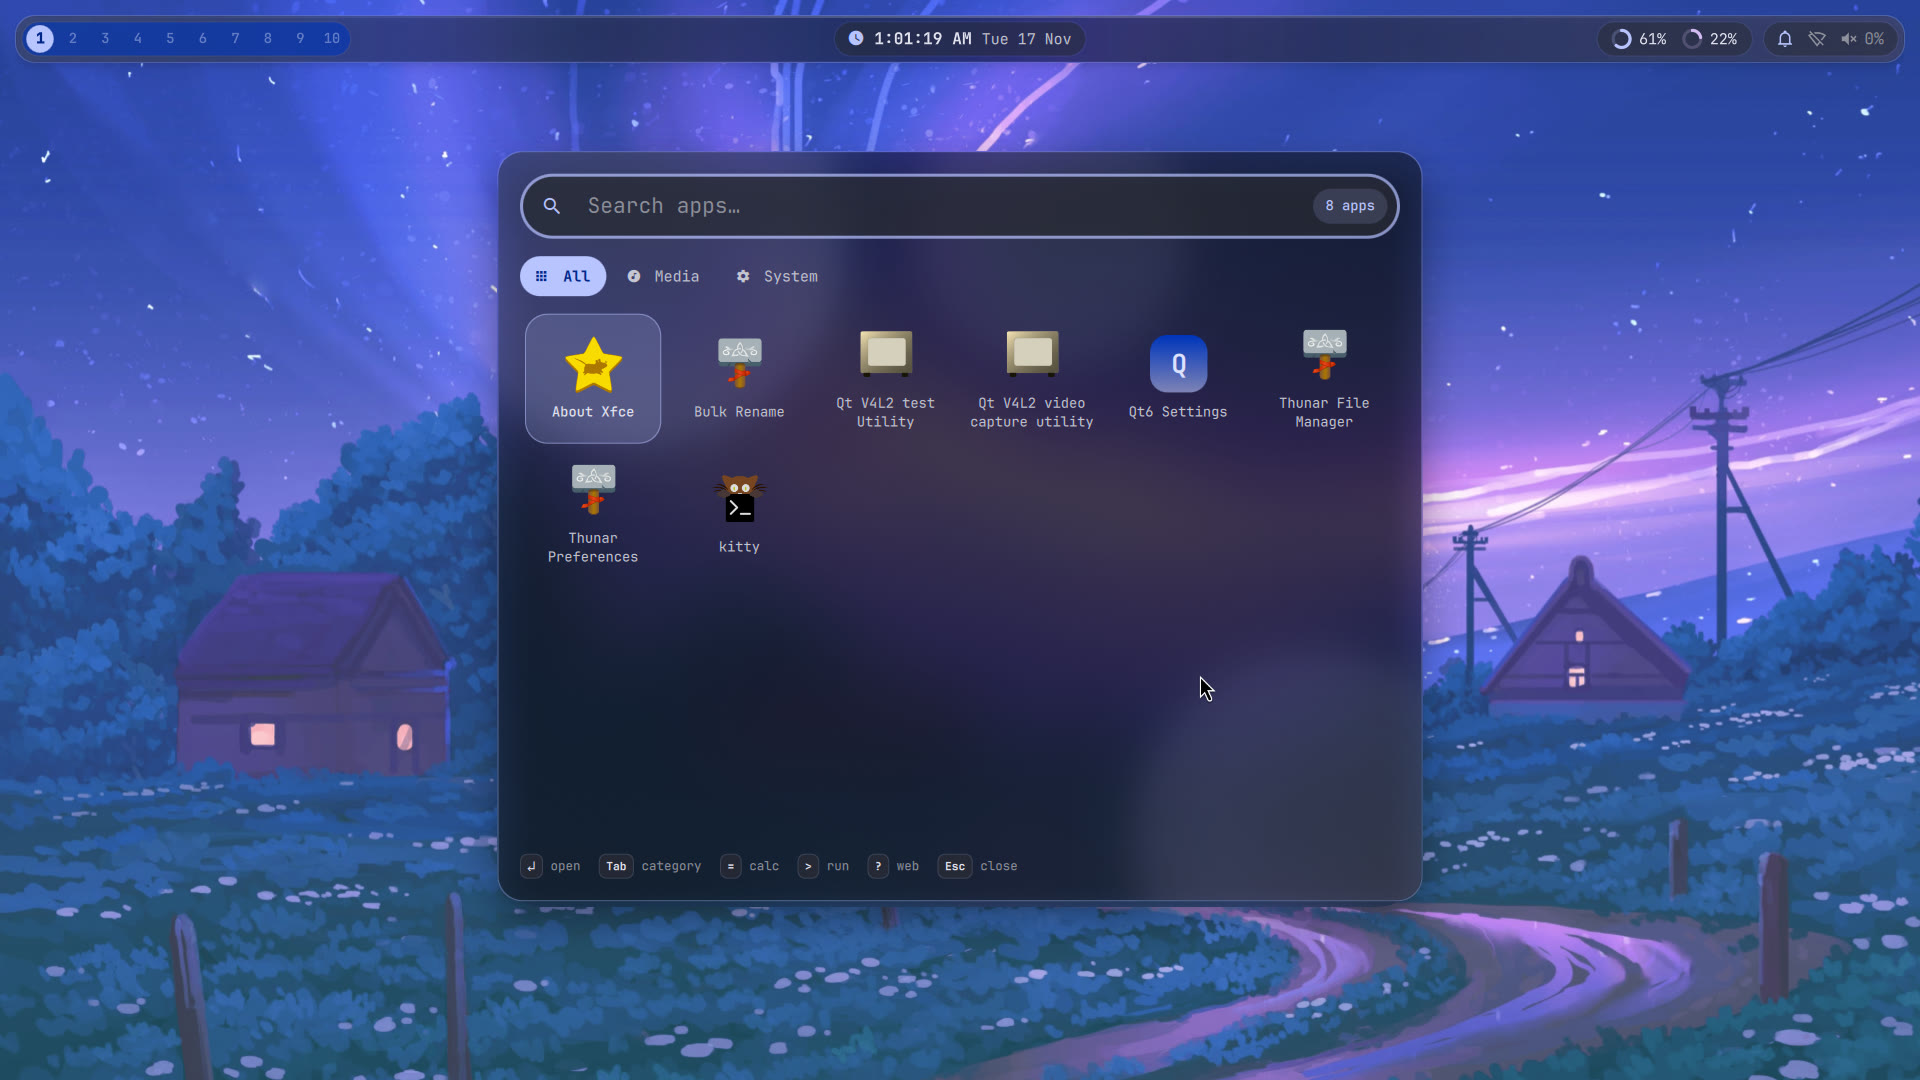
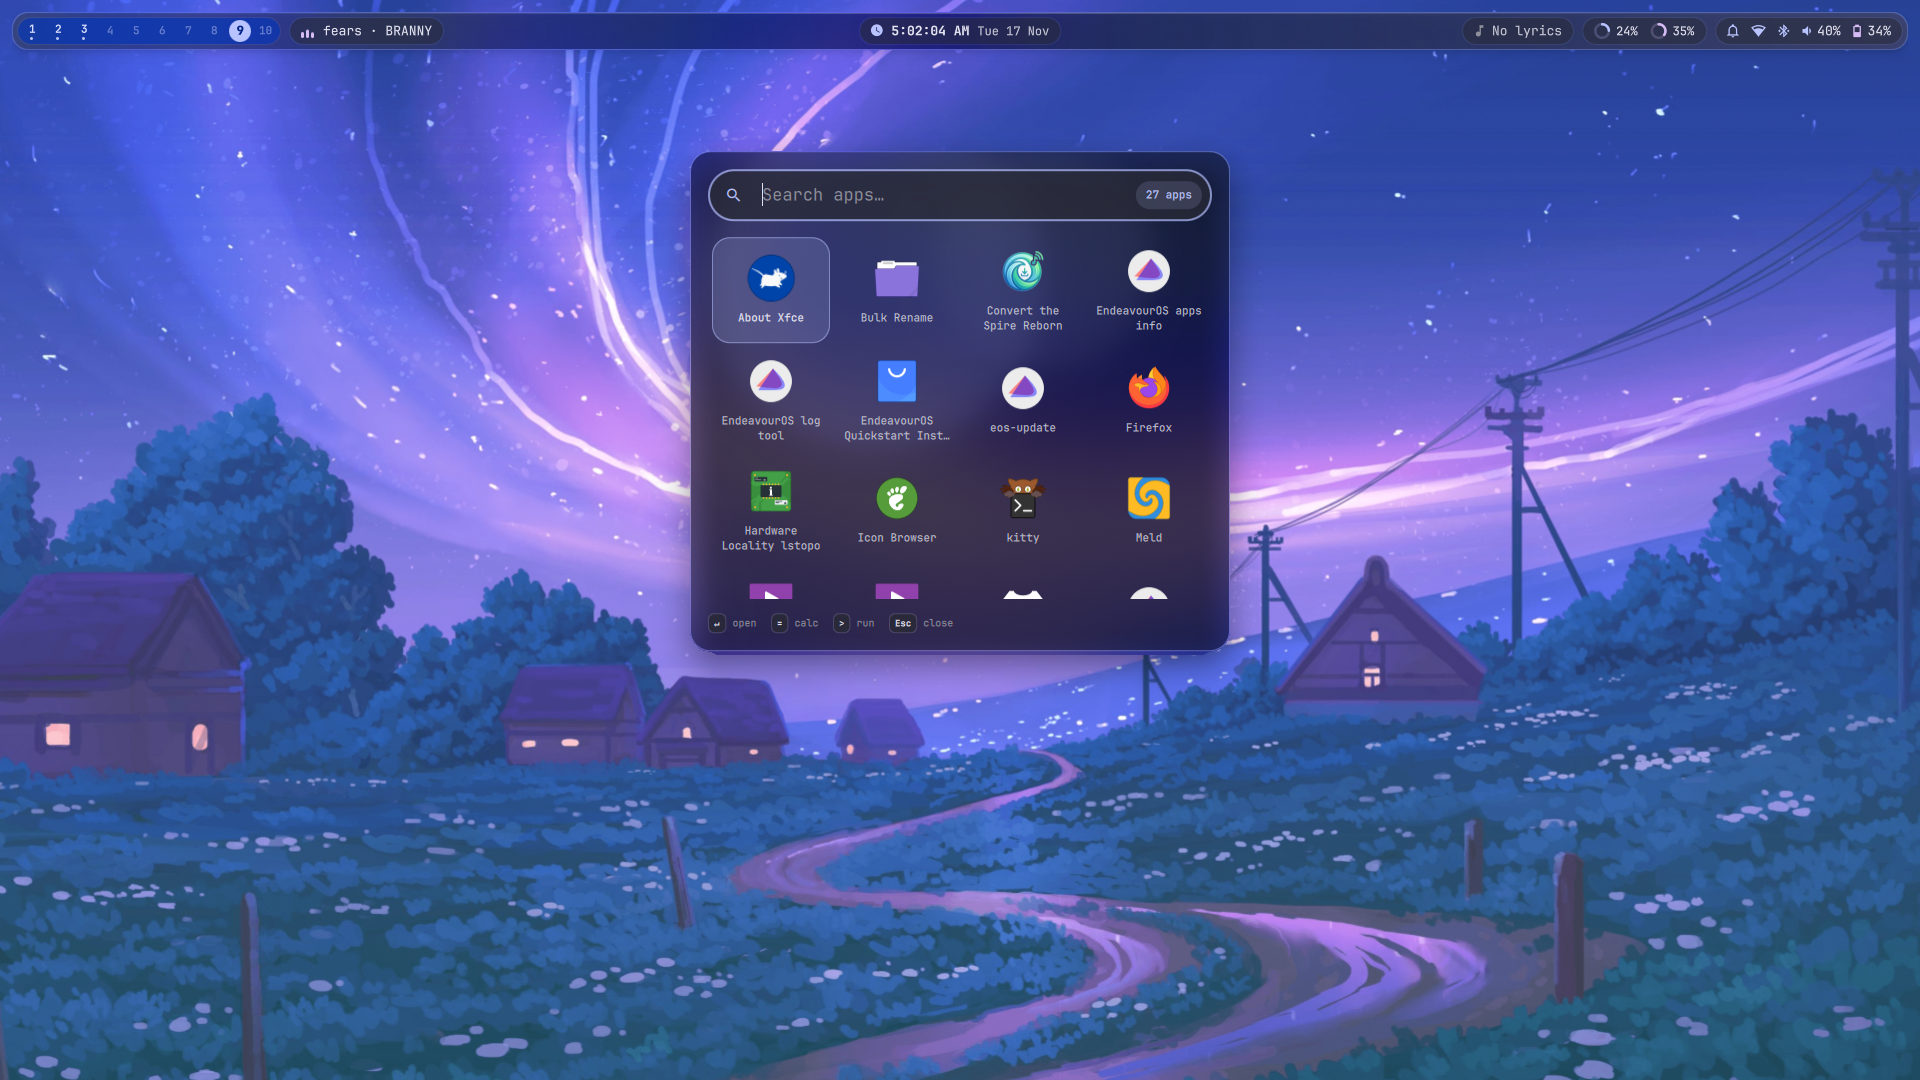
Refresh screenshots and README for the newer features
New screenshots: dashboard, cheatsheet, desktop widgets, color picker, bar layout editor, automation, and the nine newest themes; refreshed desktop, launcher, control center, settings and wallpaper picker. README gains a highlights section and the full theme gallery.

diff --git a/README.md b/README.md
@@ -10,14 +10,34 @@ recording. Colors follow the wallpaper through matugen (kitty, GTK, Qt, fish, Hy
 | Launcher | Control center |
 | --- | --- |
 | ![Launcher](docs/screenshots/launcher.jpg) | ![Control center](docs/screenshots/control-center.jpg) |
-| **Settings** | **Wallpaper picker** |
+| **Settings: Themes** | **Wallpaper picker** |
 | ![Settings](docs/screenshots/settings.jpg) | ![Wallpaper picker](docs/screenshots/wallpaper-picker.jpg) |
-| **32-band equalizer** | |
-| ![Equalizer](docs/screenshots/equalizer.jpg) | |
+| **Dashboard** (calendar, weather, timers) | **Keybind cheatsheet** (`Super + /`) |
+| ![Dashboard](docs/screenshots/dashboard.jpg) | ![Cheatsheet](docs/screenshots/cheatsheet.jpg) |
+| **32-band equalizer** | **Desktop widgets** |
+| ![Equalizer](docs/screenshots/equalizer.jpg) | ![Desktop widgets](docs/screenshots/desktop-widgets.jpg) |
+
+## Highlights
+
+- **29 built-in themes** plus a random-theme roller (pin a style and a color), your own saved themes, and shareable `.pdtheme` packs.
+- **Drag-and-drop bar layout editor**, custom bar modules (any shell command as a chip), bar at the top or bottom, floating / attached / islands styles.
+- **Color pickers** for every hex color setting (seed color, tint, accent override, custom borders and glow), and a fixed-seed mode that ignores the wallpaper.
+- **Desktop widgets** (clock, calendar, now playing, CPU & RAM, weather, notes, lyrics, command output) with an on-screen edit mode.
+- **Automation rules**: change theme, power profile or Do Not Disturb while on battery, in a fullscreen app, at a time of day or with an extra monitor, then restore.
+- **Hot corners**, a keybind cheatsheet, a window switcher and workspace overview, a dashboard with timers, and a fully rebindable keymap.
+- **Live lyrics**, album-cover wallpapers with a visualizer, a 32-band equalizer, an audio mixer, and screen recording.
+- A global switch to stop themes from changing the screen shader (Themes → Theme options).
+
+| **Color pickers** | **Bar layout editor** |
+| --- | --- |
+| ![Color picker](docs/screenshots/color-picker.jpg) | ![Bar layout editor](docs/screenshots/bar-layout-editor.jpg) |
+| **Automation rules** | |
+| ![Automation](docs/screenshots/automation.jpg) | |
 
 ## Themes
 
-28 built-in themes (Settings → Themes), each a full look: wallpaper, colors, bar style, gaps, blur and animations. You can save your own too. The screenshots below show the first nine; newer ones include Shinigami (Death Note), Backrooms, Poolrooms, Dreamcore, Midnight Seance, Tokyo Night, Dracula, Solarized Dark and Kanagawa. A global switch (Themes → Theme options) stops themes from setting a screen shader.
+29 built-in themes (Settings → Themes), each a full look: wallpaper, colors, bar style, gaps, blur and animations. You can save your own too,
+or roll a random one (`qs ipc call themes random [style] [color]`). The screenshots show the first nine and the newest nine.
 
 | **Frosted Glass** | **Mocha Islands** | **Gruvbox Workshop** |
 | --- | --- | --- |
@@ -26,6 +46,14 @@ recording. Colors follow the wallpaper through matugen (kitty, GTK, Qt, fish, Hy
 | ![Nordic Taskbar](docs/screenshots/themes/nordic-taskbar.jpg) | ![Everforest Zen](docs/screenshots/themes/everforest-zen.jpg) | ![Rosé Pine Soft](docs/screenshots/themes/rose-pine-soft.jpg) |
 | **Pixel Den** | **Mono Focus** | **Neon Transit** |
 | ![Pixel Den](docs/screenshots/themes/pixel-den.jpg) | ![Mono Focus](docs/screenshots/themes/mono-focus.jpg) | ![Neon Transit](docs/screenshots/themes/neon-transit.jpg) |
+| **Shinigami** (Death Note) | **Backrooms** | **Poolrooms** |
+| ![Shinigami](docs/screenshots/themes/shinigami.jpg) | ![Backrooms](docs/screenshots/themes/backrooms.jpg) | ![Poolrooms](docs/screenshots/themes/poolrooms.jpg) |
+| **Dreamcore** | **Midnight Seance** | **Tokyo Night** |
+| ![Dreamcore](docs/screenshots/themes/dreamcore.jpg) | ![Midnight Seance](docs/screenshots/themes/midnight-seance.jpg) | ![Tokyo Night](docs/screenshots/themes/tokyo-night.jpg) |
+| **Dracula** | **Solarized Dark** | **Kanagawa** |
+| ![Dracula](docs/screenshots/themes/dracula.jpg) | ![Solarized Dark](docs/screenshots/themes/solarized-dark.jpg) | ![Kanagawa](docs/screenshots/themes/kanagawa.jpg) |
+
+Also built in: Neon Cyberpunk, Glass Aurora, Paper Light, Terminal Mono, Sakura Zen, Synthwave Sunset, Brutalist, Deep Ocean, Retro CRT, Minimal Dock and Silksong.
 
 ## Requirements
 
@@ -88,7 +116,7 @@ nixpkgs' Quickshell does not bundle.
 
 1. Log in to the Hyprland session, or from a TTY run `start-hyprland` (don't launch the bare `Hyprland` binary).
 2. Wallpapers: put images in `~/Pictures/Wallpapers`, or run `./install.sh --wallpapers` / `scripts/fetch-wallpapers.sh` to download just the 18 wallpapers the
-   built-in themes use (about 37 MB, one file each straight from its author's GitHub repo). They belong to their
+   built-in themes use (about 75 MB, one file each straight from its author's GitHub repo or wallhaven.cc). They belong to their
    authors and are not included in this repository; check each repo's license before reusing them.
 3. Optional: `sudo pacman -S swh-plugins` for the equalizer's real limiter.
 4. Optional: Settings → Input → "Middle click acts as right click" runs a one-time ydotool setup (asks for your password).
@@ -116,14 +144,14 @@ The shell works offline, but a few features talk to the internet. All of them ar
   (results are cached in `~/.cache/rice/lyrics`). Remove `lyrics` from the bar layout to stop this.
 - **Album-cover wallpaper** downloads the cover image from the URL your media player provides.
 - **Launcher web search** (`?` prefix) opens your chosen search engine in your browser.
-- **Installer:** `pacman` downloads packages; `--wallpapers` downloads 9 files from `raw.githubusercontent.com`.
+- **Installer:** `pacman` downloads packages; `--wallpapers` downloads 18 files from `raw.githubusercontent.com` and `w.wallhaven.cc`.
 
 Nothing is sent anywhere else, and there is no telemetry.
 
 ## Tested on
 
 - Arch Linux in a clean virtual machine (QEMU/KVM, software rendering, 1920x1080) with Hyprland 0.57.2
-  and Quickshell 0.3.2: install, a second run, all nine themes, the launcher, control center, equalizer,
+  and Quickshell 0.3.2: install, a second run, the first nine themes, the launcher, control center, equalizer,
   settings, wallpaper picker, lock screen, keybinds, notifications, and the equalizer's limiter.
 - NixOS (unstable) in a clean VM: the module builds, `install-nixos.sh` and its `--profile` option run,
   Hyprland starts with no config errors, the equalizer runs with its limiter, GIF and video wallpapers animate.
